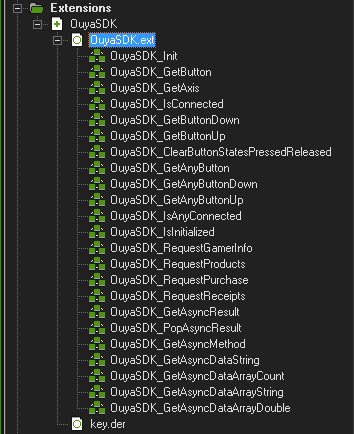
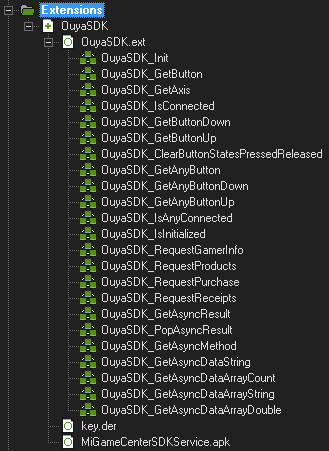
Added permissions and library info

Changed region(s): [[0.0, 0.0, 1.0, 1.0]]

diff --git a/game-maker.md b/game-maker.md
@@ -348,6 +348,38 @@ The [In-App-Purchase](https://github.com/ouya/ouya-sdk-examples/tree/master/Game
 
 ![IAP image](game-maker/image_1.png)
 
+## Xiaomi Libraries
+
+[Back to general info](enable_xiaomi_support.md#xiaomi-libraries)
+
+Place the Xiaomi libraries in the following destinations:
+
+* (Within your project folder) `extensions\OuyaSDK\MiGameCenterSDKService.apk`
+
+* (Within your project folder) `extensions\OuyaSDK\AndroidSource\libs\SDK_MIBOX_2.0.1.jar`
+
+## Xiaomi Required Permissions
+
+[Back to general info](enable_xiaomi_support.md#xiaomi-required-permissions)
+
+To edit the `AndroidManifest.xml` you'll need to open the folder using the `Help` menu and select `Open GameMaker in Explorer`. Navigate to `GameMaker-Studio-Dev\Android\runner\AndroidManifest.xml`.
+
+![IAP image](game-maker/image_6.png)
+
+Xiaomi's SDK requires several additional permissions in `AndroidManifest.xml` in order to work.
+
+```java
+<uses-permission android:name="com.xiaomi.sdk.permission.PAYMENT"/>
+<uses-permission android:name="android.permission.GET_TASKS"/>
+<uses-permission android:name="android.permission.READ_PHONE_STATE"/>
+```
+
+Make sure that the Android `android:targetSdkVersion` is set to `16`.
+
+```java
+<uses-sdk android:minSdkVersion="9" android:targetSdkVersion="16"/>
+```
+
 ## Xiaomi Initialization
 
 [Back to general info](enable_xiaomi_support.md#xiaomi-initialization)

diff --git a/enable_xiaomi_support.md b/enable_xiaomi_support.md
@@ -40,6 +40,7 @@ Engine specific details:
 
 Engine specific details:
 
+* [GameMaker](game-maker.md#xiaomi-libraries)
 * [Java](java.md#xiaomi-libraries)
 * [Unity](unity.md#xiaomi-libraries)
 
@@ -54,6 +55,7 @@ Xiaomi's SDK requires several additional permissions in `AndroidManifest.xml` in
 
 Engine specific details:
 
+* [GameMaker](game-maker.md#xiaomi-required-permissions)
 * [Java](java.md#xiaomi-required-permissions)
 * [Unity](unity.md#xiaomi-required-permissions)
 
